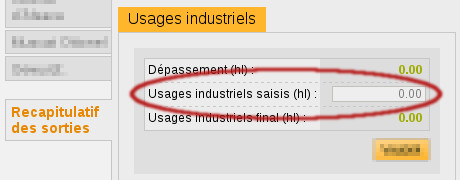
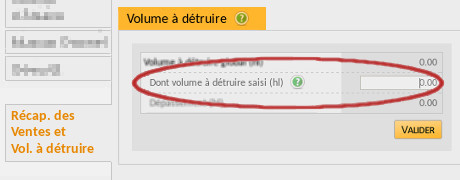
Remplacer les volumes industriels par volume à détruire

diff --git a/project/apps/civa/modules/recolte/templates/_ongletsCepages.php b/project/apps/civa/modules/recolte/templates/_ongletsCepages.php
@@ -23,5 +23,5 @@
         <?php endforeach; ?>
     <?php endforeach; ?>
     <!--<li class="alerte"><a href="#">Rebêche <span></span></a></li>-->
-    <li class="recapitulatif <?php if ($recapitulatif): ?> ui-tabs-selected<?php endif; ?>" ><a href="<?php echo url_for($onglets->getUrlRecap()->getRawValue()) ?>">Récap. des<br />Ventes&nbsp;et<br />Us.&nbsp;industriels<span></span></a></li>
+    <li class="recapitulatif <?php if ($recapitulatif): ?> ui-tabs-selected<?php endif; ?>" ><a href="<?php echo url_for($onglets->getUrlRecap()->getRawValue()) ?>">Récap. des<br />Ventes&nbsp;et<br />Vol.&nbsp;à&nbsp;détruire<span></span></a></li>
 </ul>
